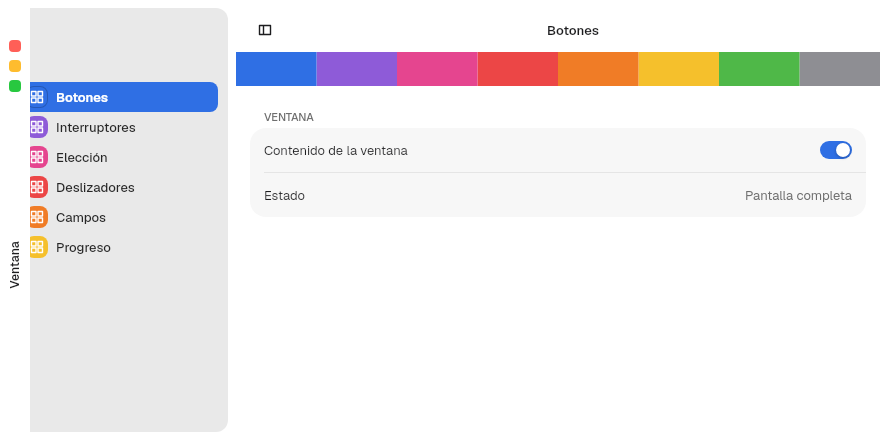
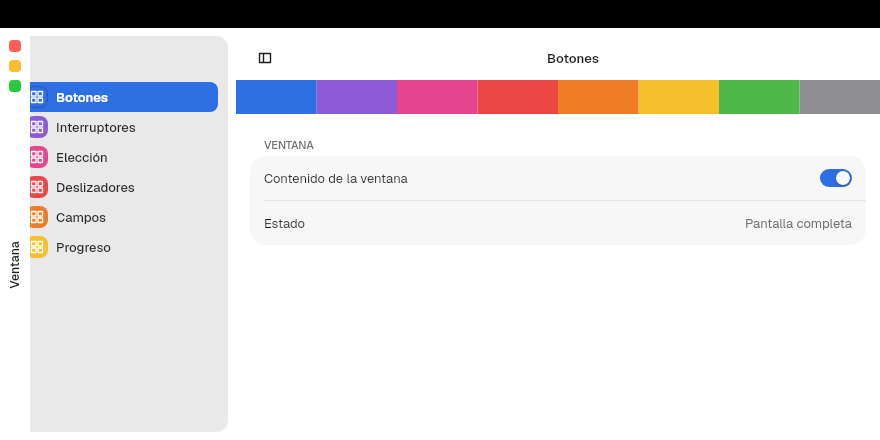
fix(kit): titlebar in focus mode with previews, the Rail and live bars
- Titlebar::preview ignores the window state: an embedded preview no
  longer overlays itself in full screen and covers the real titlebar.
- With the Rail the bar pushes the window down while it is down, so the
  top titlebar stays whole below it (WindowControls::pushes_content).
- fullscreen_bar and fullscreen_push are States in WindowControls:
  Tengen App Show switches them live.
- chrome::window_root holds the pushed root shared by the runtime and
  the tests.
- Chapters 6, 7 and 15 (es/en) and the Rail screenshots follow.

Claude-Session: https://claude.ai/code/session_01F89v1w3NBR5b9eab8vdVJm

diff --git a/crates/barrier-kit/src/chrome.rs b/crates/barrier-kit/src/chrome.rs
@@ -112,6 +112,17 @@ pub(crate) fn use_focus_bar_reveal() {
     }
 }
 
+pub(crate) fn window_root(app: impl IntoElement) -> Rect {
+    use_focus_bar_reveal();
+    let pushed =
+        try_consume_root_context::<WindowControls>().map_or(0.0, |controls| controls.push_offset());
+    rect()
+        .width(Size::fill())
+        .height(Size::fill())
+        .padding(Gaps::new(pushed, 0.0, 0.0, 0.0))
+        .child(app)
+}
+
 fn bar_height() -> f32 {
     TITLEBAR_CLIENT_HEIGHT.max(SETTINGS.toolbar_height) as f32
 }
@@ -171,12 +182,14 @@ pub(crate) fn report_sidebar_shown(shown: bool) {
 }
 
 pub(crate) fn fullscreen_push() -> bool {
-    try_consume_root_context::<WindowControls>().is_some_and(|controls| controls.fullscreen_push)
+    try_consume_root_context::<WindowControls>()
+        .is_some_and(|controls| *controls.fullscreen_push.read())
 }
 
 pub(crate) fn fullscreen_bar() -> FullscreenBar {
-    try_consume_root_context::<WindowControls>()
-        .map_or(FullscreenBar::Solid, |controls| controls.fullscreen_bar)
+    try_consume_root_context::<WindowControls>().map_or(FullscreenBar::Solid, |controls| {
+        *controls.fullscreen_bar.read()
+    })
 }
 
 fn fullscreen_overlay() -> (bool, Option<f32>) {
@@ -322,6 +335,10 @@ impl Component for WindowChrome {
         style_state.set_if_modified(style);
         let mut items_state = chrome.rail_items;
         items_state.set_if_modified(self.rail_items.clone());
+        if let Some(controls) = try_consume_root_context::<WindowControls>() {
+            let mut rail_layout = controls.rail_layout;
+            rail_layout.set_if_modified(style.layout == TitlebarLayout::Rail);
+        }
         let mut revealed = use_state(|| false);
         let reduced_motion = crate::theme::resolved().reduced_motion;
         let animation = use_animation_transition(revealed, move |from: bool, to: bool| {
@@ -470,12 +487,6 @@ fn rail(style: ChromeStyle, items: &RailItems, lights_opacity: f32) -> Rect {
     let lights_shown = controls
         .as_ref()
         .is_none_or(|controls| controls.traffic_lights_shown());
-    let below_bar = controls
-        .as_ref()
-        .filter(|_| overlaid && !fullscreen_push())
-        .map_or(0.0, |controls| {
-            *controls.focus_bar_height.read() * *controls.focus_bar_progress.read()
-        });
     let floating = overlaid && !fullscreen_push();
     let background = if island || floating {
         Rgba::TRANSPARENT
@@ -505,7 +516,7 @@ fn rail(style: ChromeStyle, items: &RailItems, lights_opacity: f32) -> Rect {
         .cross_align(Alignment::Center)
         .spacing(TITLEBAR.buttons.spacing as f32)
         .padding(Gaps::new(
-            TITLEBAR_RAIL.padding_top + below_bar,
+            TITLEBAR_RAIL.padding_top,
             0.0,
             TITLEBAR_RAIL.padding_bottom,
             0.0,

diff --git a/crates/barrier-kit/src/platform/window.rs b/crates/barrier-kit/src/platform/window.rs
@@ -175,9 +175,10 @@ pub struct WindowControls {
     pub focus_bar_progress: State<f32>,
     pub focus_overlay: bool,
     pub focus_bar_height: State<f32>,
-    pub fullscreen_bar: FullscreenBar,
-    pub fullscreen_push: bool,
+    pub fullscreen_bar: State<FullscreenBar>,
+    pub fullscreen_push: State<bool>,
     pub(crate) overlay_titlebar_height: State<f32>,
+    pub(crate) rail_layout: State<bool>,
 }
 
 pub(crate) fn window_activated() -> bool {
@@ -195,20 +196,25 @@ impl WindowControls {
     }
 
     pub fn fullscreen_content_top(&self) -> f32 {
-        let below_bar = match self.fullscreen_bar {
+        let below_bar = match *self.fullscreen_bar.read() {
             FullscreenBar::ProgressiveGlass => vow_design::FULLSCREEN_GLASS.content_top,
             FullscreenBar::Glass => vow_design::FULLSCREEN_BAND.content_top,
             FullscreenBar::Solid => vow_design::FULLSCREEN_BAR.content_top,
         };
-        if self.titlebar_overlaid() && !self.fullscreen_push {
+        if self.titlebar_overlaid() && !self.pushes_content() {
             *self.focus_bar_height.read() + below_bar
         } else {
             0.0
         }
     }
 
+    // ADR 0054: with the Rail the top titlebar stays in the layout, so the bar pushes the window down.
+    pub(crate) fn pushes_content(&self) -> bool {
+        *self.fullscreen_push.read() || *self.rail_layout.read()
+    }
+
     pub(crate) fn push_offset(&self) -> f32 {
-        if self.fullscreen_push && self.titlebar_overlaid() {
+        if self.pushes_content() && self.titlebar_overlaid() {
             (*self.focus_bar_height.read() + *self.overlay_titlebar_height.read())
                 * *self.focus_bar_progress.read()
         } else {
@@ -519,9 +525,10 @@ impl Runtime {
                 .as_ref()
                 .is_some_and(|manager| manager.version() >= 2),
             focus_bar_height: State::create_global(vow_design::MENUBAR_HEIGHT as f32),
-            fullscreen_bar: options.fullscreen_bar,
-            fullscreen_push: options.fullscreen_push,
+            fullscreen_bar: State::create_global(options.fullscreen_bar),
+            fullscreen_push: State::create_global(options.fullscreen_push),
             overlay_titlebar_height: State::create_global(0.0),
+            rail_layout: State::create_global(false),
         };
         if let Some(manager) = &self.focus_manager {
             let notice = manager.get_focus_surface(&surface, qh, surface.id());

diff --git a/crates/barrier-kit/src/platform/app.rs b/crates/barrier-kit/src/platform/app.rs
@@ -12,10 +12,7 @@ use freya_core::{
         PlatformEvent, PreferredTheme, RenderingTicker, RenderingTickerSender, Runner,
         ScreenReader, Tree, UserEvent, WritableUtils, default_fonts,
     },
-    prelude::{
-        AccessibilityFocusStrategy, ChildrenExt, ContainerExt, ContainerSizeExt, State, rect,
-        try_consume_root_context,
-    },
+    prelude::{AccessibilityFocusStrategy, State},
 };
 use freya_engine::prelude::{FontCollection, FontMgr};
 use keyboard_types::{Code, Key, Modifiers, NamedKey};
@@ -26,7 +23,7 @@ use std::{
     rc::Rc,
     task::{Context, Waker},
 };
-use torin::prelude::{Gaps, Size, Size2D};
+use torin::prelude::Size2D;
 use vow_appearance::Resolved;
 
 use super::{
@@ -84,15 +81,7 @@ impl AppInstance {
     ) -> Self {
         let (events_sender, events_receiver) = futures_channel::mpsc::unbounded();
         let mut runner = Runner::new(move || {
-            crate::chrome::use_focus_bar_reveal();
-            let pushed = try_consume_root_context::<WindowControls>()
-                .map_or(0.0, |controls| controls.push_offset());
-            rect()
-                .width(Size::fill())
-                .height(Size::fill())
-                .padding(Gaps::new(pushed, 0.0, 0.0, 0.0))
-                .child(integration(app.clone()))
-                .into_element()
+            crate::chrome::window_root(integration(app.clone())).into_element()
         });
 
         runner.provide_root_context(ScreenReader::new);

diff --git a/crates/tengen-app-show/src/chrome.rs b/crates/tengen-app-show/src/chrome.rs
@@ -218,21 +218,18 @@ fn fullscreen(prefs: State<Prefs>) -> Form {
     let current = *prefs.read();
     Form::new().section(
         Section::titled("Pantalla completa")
+            .row(Row::new("Barra").control(popup(
+                "Barra",
+                &BARS,
+                current.fullscreen_bar,
+                move |bar| update(prefs, |p| p.fullscreen_bar = bar),
+            )))
             .row(
-                Row::new("Barra")
-                    .detail("Se aplica al abrir de nuevo la app.")
-                    .control(popup("Barra", &BARS, current.fullscreen_bar, move |bar| {
-                        update(prefs, |p| p.fullscreen_bar = bar)
-                    })),
-            )
-            .row(
-                Row::new("Empujar el contenido")
-                    .detail("Se aplica al abrir de nuevo la app.")
-                    .control(
-                        Switch::new("Empujar el contenido")
-                            .on(current.fullscreen_push)
-                            .on_toggle(move |on: bool| update(prefs, |p| p.fullscreen_push = on)),
-                    ),
+                Row::new("Empujar el contenido").control(
+                    Switch::new("Empujar el contenido")
+                        .on(current.fullscreen_push)
+                        .on_toggle(move |on: bool| update(prefs, |p| p.fullscreen_push = on)),
+                ),
             ),
     )
 }

diff --git a/crates/barrier-kit/src/titlebar.rs b/crates/barrier-kit/src/titlebar.rs
@@ -140,8 +140,13 @@ impl Component for Titlebar {
                 .into_element();
         }
 
-        let controls = freya_core::prelude::try_consume_root_context::<WindowControls>();
-        let rail = crate::chrome::chrome_style().layout == crate::chrome::TitlebarLayout::Rail;
+        let controls = freya_core::prelude::try_consume_root_context::<WindowControls>()
+            .filter(|_| self.preview.is_none());
+        let layout = match self.preview {
+            Some(_) => crate::chrome::TitlebarLayout::Top,
+            None => crate::chrome::chrome_style().layout,
+        };
+        let rail = layout == crate::chrome::TitlebarLayout::Rail;
         let overlaid = !rail
             && controls
                 .as_ref()
@@ -214,8 +219,9 @@ impl Component for Titlebar {
             (false, false) => theme.title.unfocused,
         };
         let lights_shown = freya_core::prelude::try_consume_root_context::<WindowControls>()
+            .filter(|_| self.preview.is_none())
             .is_none_or(|controls| controls.traffic_lights_shown());
-        let vertical = crate::chrome::chrome_style().layout != crate::chrome::TitlebarLayout::Top;
+        let vertical = layout != crate::chrome::TitlebarLayout::Top;
         let lights_opacity = crate::chrome::lights_opacity();
         let traffic = if sidebar || !lights_shown || vertical || lights_opacity == 0.0 {
             None

diff --git a/crates/barrier-kit/src/platform/tests.rs b/crates/barrier-kit/src/platform/tests.rs
@@ -49,9 +49,10 @@ fn window_controls(status: WindowStatus) -> WindowControls {
         focus_bar_progress: freya_core::prelude::State::create(0.0),
         focus_overlay: false,
         focus_bar_height: freya_core::prelude::State::create(28.0),
-        fullscreen_bar: super::FullscreenBar::Solid,
-        fullscreen_push: false,
+        fullscreen_bar: freya_core::prelude::State::create(super::FullscreenBar::Solid),
+        fullscreen_push: freya_core::prelude::State::create(false),
         overlay_titlebar_height: freya_core::prelude::State::create(0.0),
+        rail_layout: freya_core::prelude::State::create(false),
     }
 }
 
@@ -914,15 +915,14 @@ mod fullscreen_chrome_tests {
 
     impl App for Case {
         fn render(&self) -> impl IntoElement {
-            crate::chrome::use_focus_bar_reveal();
             let detail = rect()
                 .width(Size::fill())
                 .height(Size::fill())
                 .child(Titlebar::new().title("Ventana").with_sidebar(true));
-            WindowChrome::new(
+            crate::chrome::window_root(WindowChrome::new(
                 self.0,
                 SplitView::new(Sidebar::new().traffic_lights(true), detail),
-            )
+            ))
         }
     }
 

diff --git a/crates/tengen-app-show/src/main.rs b/crates/tengen-app-show/src/main.rs
@@ -26,7 +26,7 @@ use barrier_kit::level::{LevelSlider, LevelStyle};
 use barrier_kit::menu::MenuItem;
 use barrier_kit::patterns::about::about_window;
 use barrier_kit::patterns::preferences::{Pane, PaneGroup, PreferencesWindow};
-use barrier_kit::platform::{DecorationResponse, WindowStatus};
+use barrier_kit::platform::{DecorationResponse, WindowControls, WindowStatus};
 use barrier_kit::platform::{Decorations, WindowOptions, run_window};
 use barrier_kit::popup_button::PopUpButton;
 use barrier_kit::progress::{ProgressBar, ProgressRing, Spinner};
@@ -678,6 +678,11 @@ impl App for Show {
             config.reduced_motion = *reduced.read();
         });
         let current = *prefs.read();
+        if let Some(controls) = try_consume_root_context::<WindowControls>() {
+            let (mut bar, mut push) = (controls.fullscreen_bar, controls.fullscreen_push);
+            bar.set_if_modified(current.fullscreen_bar);
+            push.set_if_modified(current.fullscreen_push);
+        }
 
         let window = PreferencesWindow::new()
             .restoration(self.app_id)

diff --git a/crates/barrier-kit/src/sidebar.rs b/crates/barrier-kit/src/sidebar.rs
@@ -229,7 +229,7 @@ impl Component for Sidebar {
             && lights_opacity > 0.0;
         let pushed_titlebar = controls
             .as_ref()
-            .filter(|controls| controls.fullscreen_push)
+            .filter(|controls| controls.pushes_content())
             .map(|controls| *controls.overlay_titlebar_height.read());
         let overlay_top = controls.as_ref().and_then(|controls| {
             controls

diff --git a/docs/barrierkit/07-titlebars.md b/docs/barrierkit/07-titlebars.md
@@ -198,6 +198,9 @@ WindowOptions::new("Ondina", "ondina")
     .fullscreen_push(true)
 ```
 
+Las dos son el valor inicial. La app las cambia en vivo con
+`WindowControls::get().fullscreen_bar` y `.fullscreen_push`, dos `State`.
+
 Con ella, la barra no tapa nada: todo el contenido de la ventana, barra lateral
 incluida, baja lo que miden la barra del compositor y la titlebar
 (`WindowControls::push_offset`). Los semáforos bajan con la titlebar y
@@ -212,16 +215,17 @@ incluida, baja lo que miden la barra del compositor y la titlebar
 #### Con el `Rail`
 
 Con el `Rail`, la titlebar superior no se retrae ni se superpone: se queda
-en su sitio, como en la ventana normal. Solo el rail se oculta con la barra del
-compositor arriba y, al bajar, entra desde la izquierda con la misma barra, en
-vertical:
+en su sitio, como en la ventana normal. Al bajar la barra del compositor, toda
+la ventana baja lo que mide la barra, así que la titlebar queda entera debajo.
+Solo el rail se oculta con la barra arriba y, al bajar, entra desde la
+izquierda con la misma barra, en vertical:
 
 | `FullscreenBar` | El rail | Cómo se ve |
 |---|---|---|
 | `Solid` («A · Lisa», **por defecto**) | Franja opaca del ancho del rail, encima del contenido | ![Rail con A · Lisa](assets/estados/rail-barra-lisa.png) |
 | `Glass` («B1 · Vidrio en banda») | Franja del ancho del rail que difumina lo de debajo, con una línea en el borde interior | ![Rail con B1 · Vidrio en banda](assets/estados/rail-barra-vidrio-banda.png) |
 | `ProgressiveGlass` («B2 · Vidrio progresivo») | Difuminado máximo en el borde de la ventana que se desvanece hacia dentro en 96 px | ![Rail con B2 · Vidrio progresivo](assets/estados/rail-barra-vidrio-progresivo.png) |
-| Cualquiera + `fullscreen_push(true)` | El rail vuelve al diseño y empuja el contenido de lado lo que mide; todo baja lo que mide la barra del compositor | ![Rail empujando el contenido](assets/estados/rail-barra-empuja.png) |
+| Cualquiera + `fullscreen_push(true)` | El rail vuelve al diseño y empuja el contenido de lado lo que mide | ![Rail empujando el contenido](assets/estados/rail-barra-empuja.png) |
 
 ### Modo foco con la barra bajada, por diseño
 

diff --git a/docs/barrierkit/07-titlebars.en.md b/docs/barrierkit/07-titlebars.en.md
@@ -197,6 +197,9 @@ WindowOptions::new("Ondina", "ondina")
     .fullscreen_push(true)
 ```
 
+Both are the initial value. The app changes them live through
+`WindowControls::get().fullscreen_bar` and `.fullscreen_push`, two `State`s.
+
 With it, the bar covers nothing: all the window content, sidebar included,
 moves down by the height of the compositor bar and the titlebar
 (`WindowControls::push_offset`). The traffic lights move down with the titlebar
@@ -211,16 +214,17 @@ and `fullscreen_content_top` is 0.
 #### With the `Rail`
 
 With the `Rail`, the top titlebar neither retracts nor overlays: it stays in
-place, as in the normal window. Only the rail hides while the compositor bar is
-up and, when the bar comes down, slides in from the left with the same bar,
-vertically:
+place, as in the normal window. When the compositor bar comes down, the whole
+window moves down by the bar's height, so the titlebar stays whole below it.
+Only the rail hides while the bar is up and, when the bar comes down, slides in
+from the left with the same bar, vertically:
 
 | `FullscreenBar` | The rail | How it looks |
 |---|---|---|
 | `Solid` ("A · Lisa", **default**) | An opaque strip as wide as the rail, over the content | ![Rail with A · Lisa](assets/estados/rail-barra-lisa.png) |
 | `Glass` ("B1 · Vidrio en banda") | A strip as wide as the rail that blurs what is below, with a line on the inner edge | ![Rail with B1 · Glass band](assets/estados/rail-barra-vidrio-banda.png) |
 | `ProgressiveGlass` ("B2 · Vidrio progresivo") | Maximum blur at the window edge that fades inward over 96 px | ![Rail with B2 · Progressive glass](assets/estados/rail-barra-vidrio-progresivo.png) |
-| Any + `fullscreen_push(true)` | The rail returns to the layout and pushes the content sideways by its width; everything moves down by the height of the compositor bar | ![Rail pushing the content](assets/estados/rail-barra-empuja.png) |
+| Any + `fullscreen_push(true)` | The rail returns to the layout and pushes the content sideways by its width | ![Rail pushing the content](assets/estados/rail-barra-empuja.png) |
 
 ### Focus mode with the bar down, by layout
 

diff --git a/docs/barrierkit/06-ventanas.md b/docs/barrierkit/06-ventanas.md
@@ -28,6 +28,7 @@ run_window(
 | `.parent(..)` | Ventana hija (diálogo) |
 | `.menu(AppMenu)` | Menú global de la ventana (capítulo [11](11-app.md)) |
 | `.fullscreen_bar(FullscreenBar)` | Cómo se dibuja la titlebar superpuesta en pantalla completa; `Solid` por defecto (capítulo [7](07-titlebars.md#la-barra-en-pantalla-completa-fullscreenbar)) |
+| `.fullscreen_push(bool)` | En pantalla completa, la barra empuja todo el contenido en vez de taparlo; apagado por defecto (capítulo [7](07-titlebars.md#empujar-el-contenido-fullscreen_push)) |
 
 Dentro de la app, `WindowControls::get()` da el estado (`activated`,
 `maximized`, `fullscreen`, `decoration`, `fixed`) y las órdenes: `close()`,

diff --git a/docs/barrierkit/06-ventanas.en.md b/docs/barrierkit/06-ventanas.en.md
@@ -28,6 +28,7 @@ run_window(
 | `.parent(..)` | Child window (dialog) |
 | `.menu(AppMenu)` | Global menu of the window (chapter [11](11-app.en.md)) |
 | `.fullscreen_bar(FullscreenBar)` | How the overlaid titlebar is drawn in full screen; `Solid` by default (chapter [7](07-titlebars.en.md#the-bar-in-full-screen-fullscreenbar)) |
+| `.fullscreen_push(bool)` | In full screen, the bar pushes all the content instead of covering it; off by default (chapter [7](07-titlebars.en.md#pushing-the-content-fullscreen_push)) |
 
 Inside the app, `WindowControls::get()` gives the state (`activated`,
 `maximized`, `fullscreen`, `decoration`, `fixed`) and the commands: `close()`,
